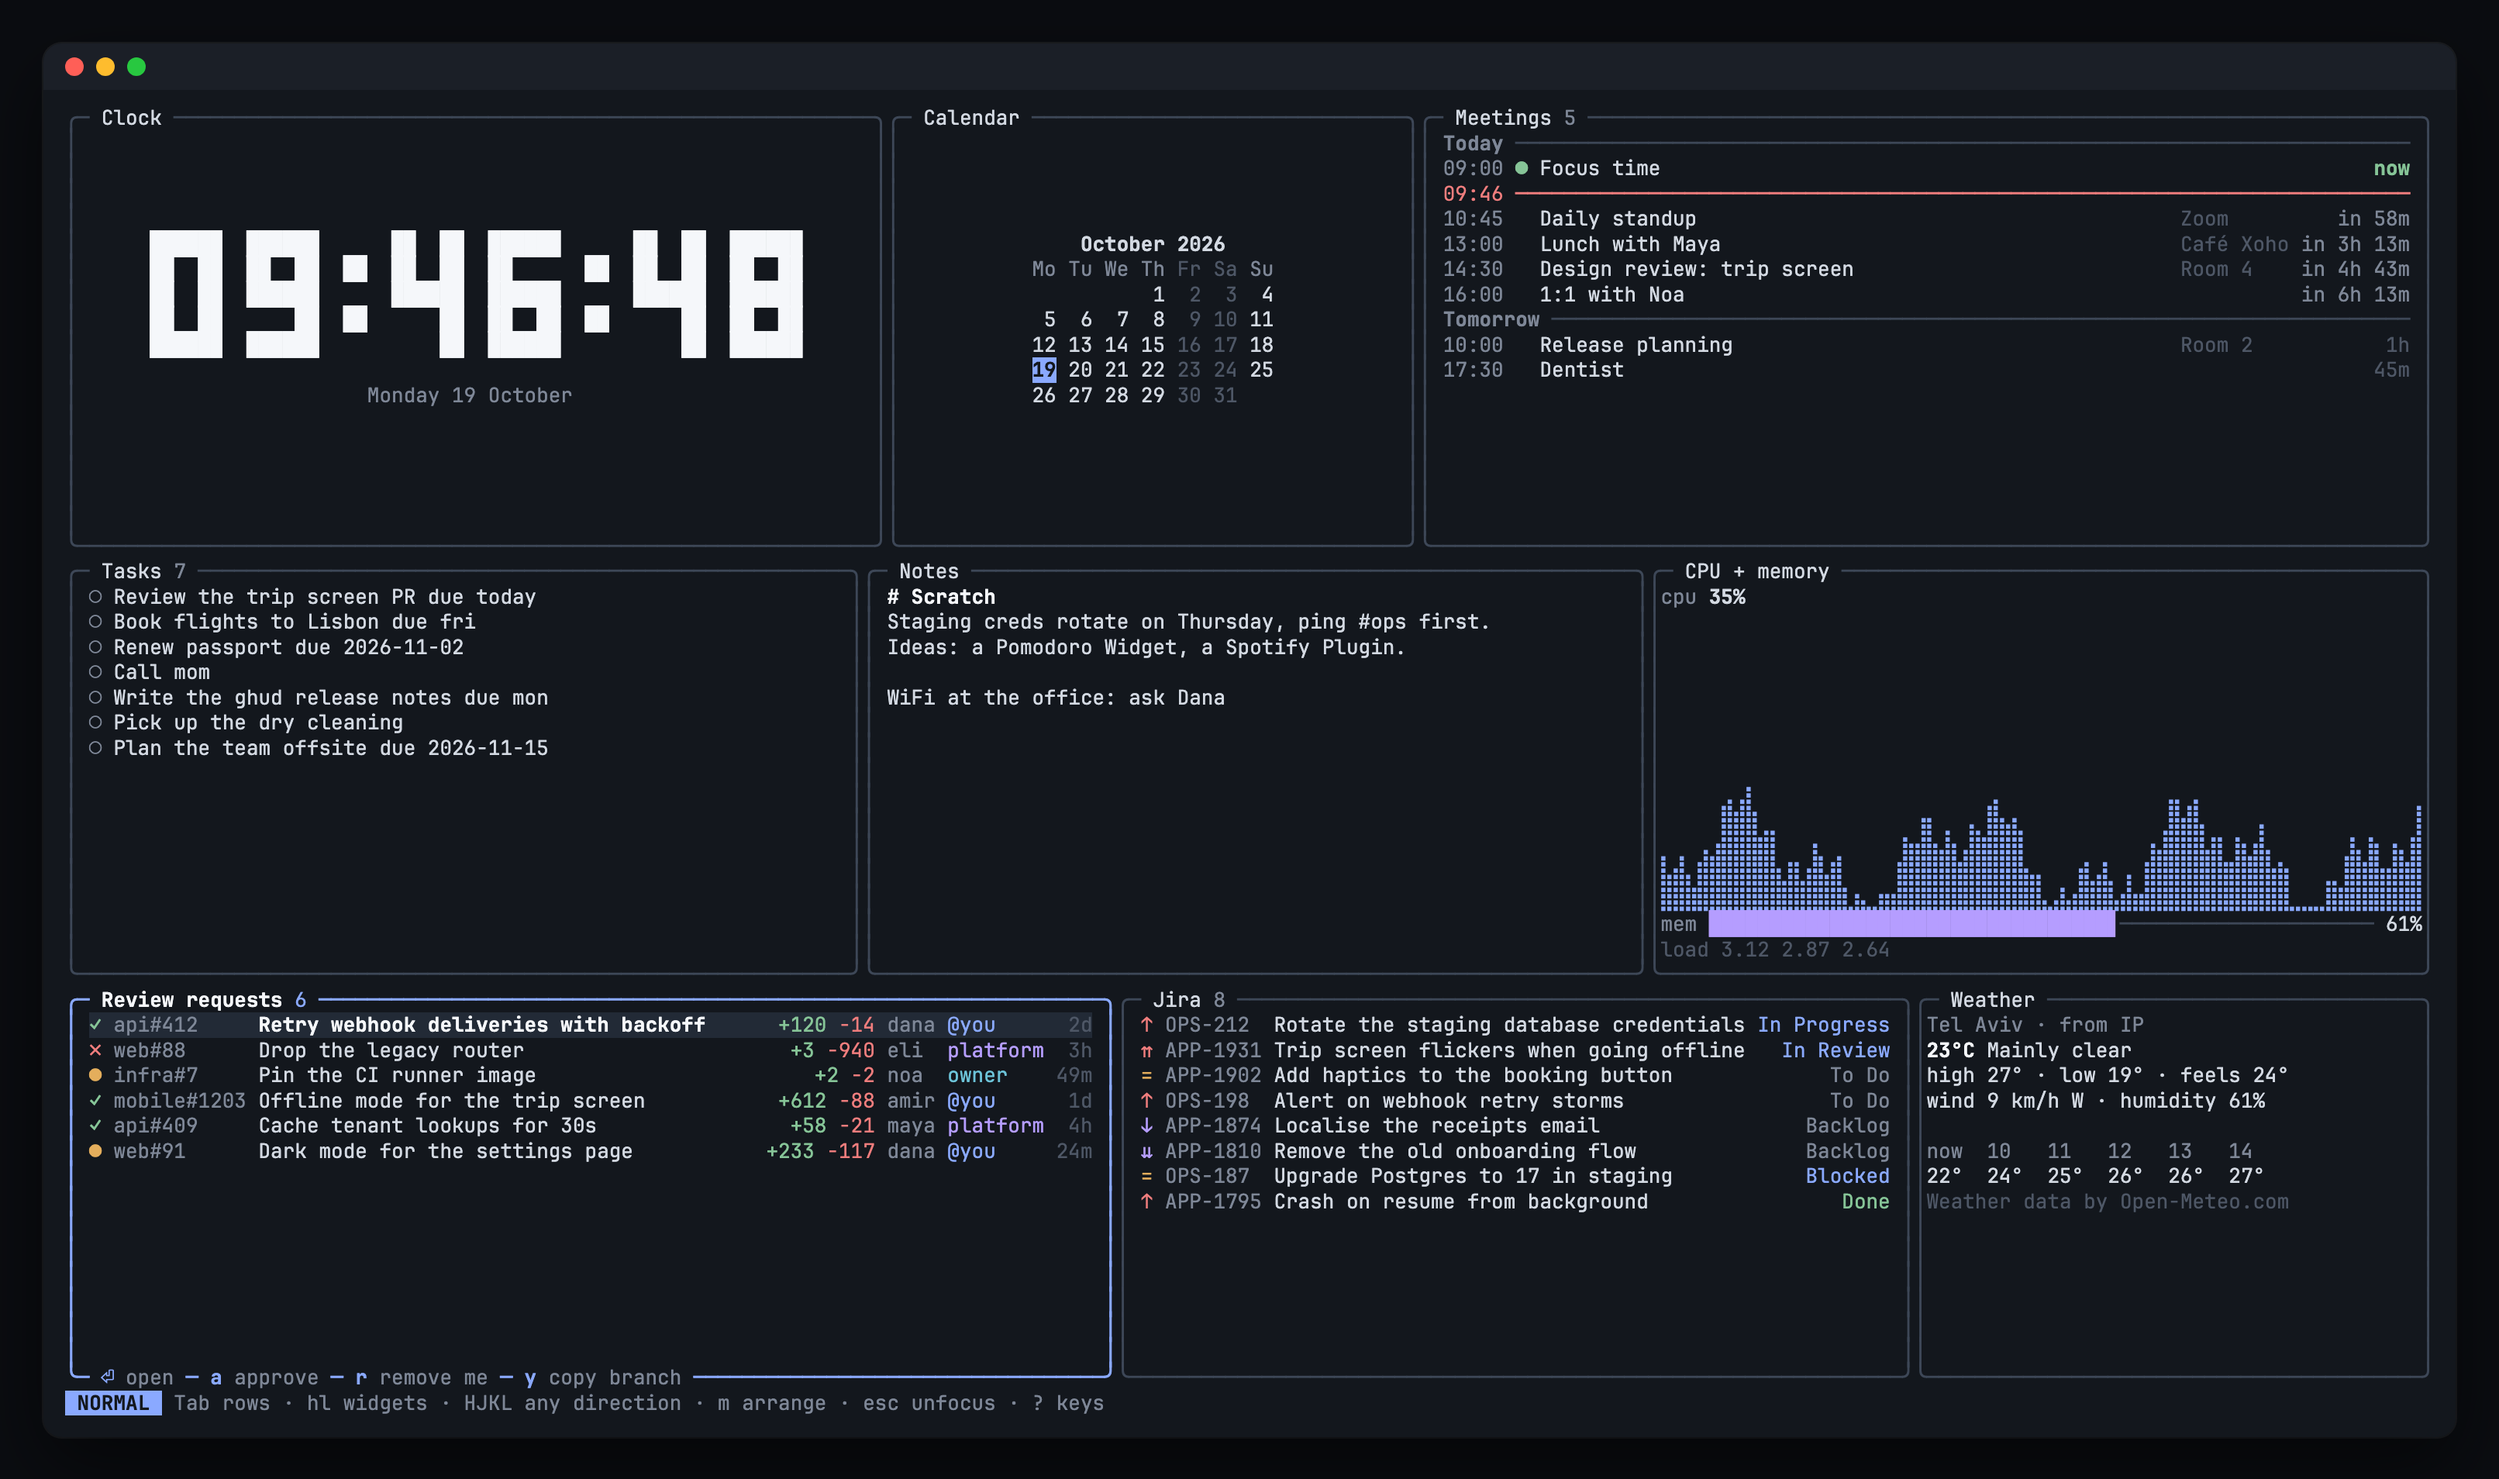
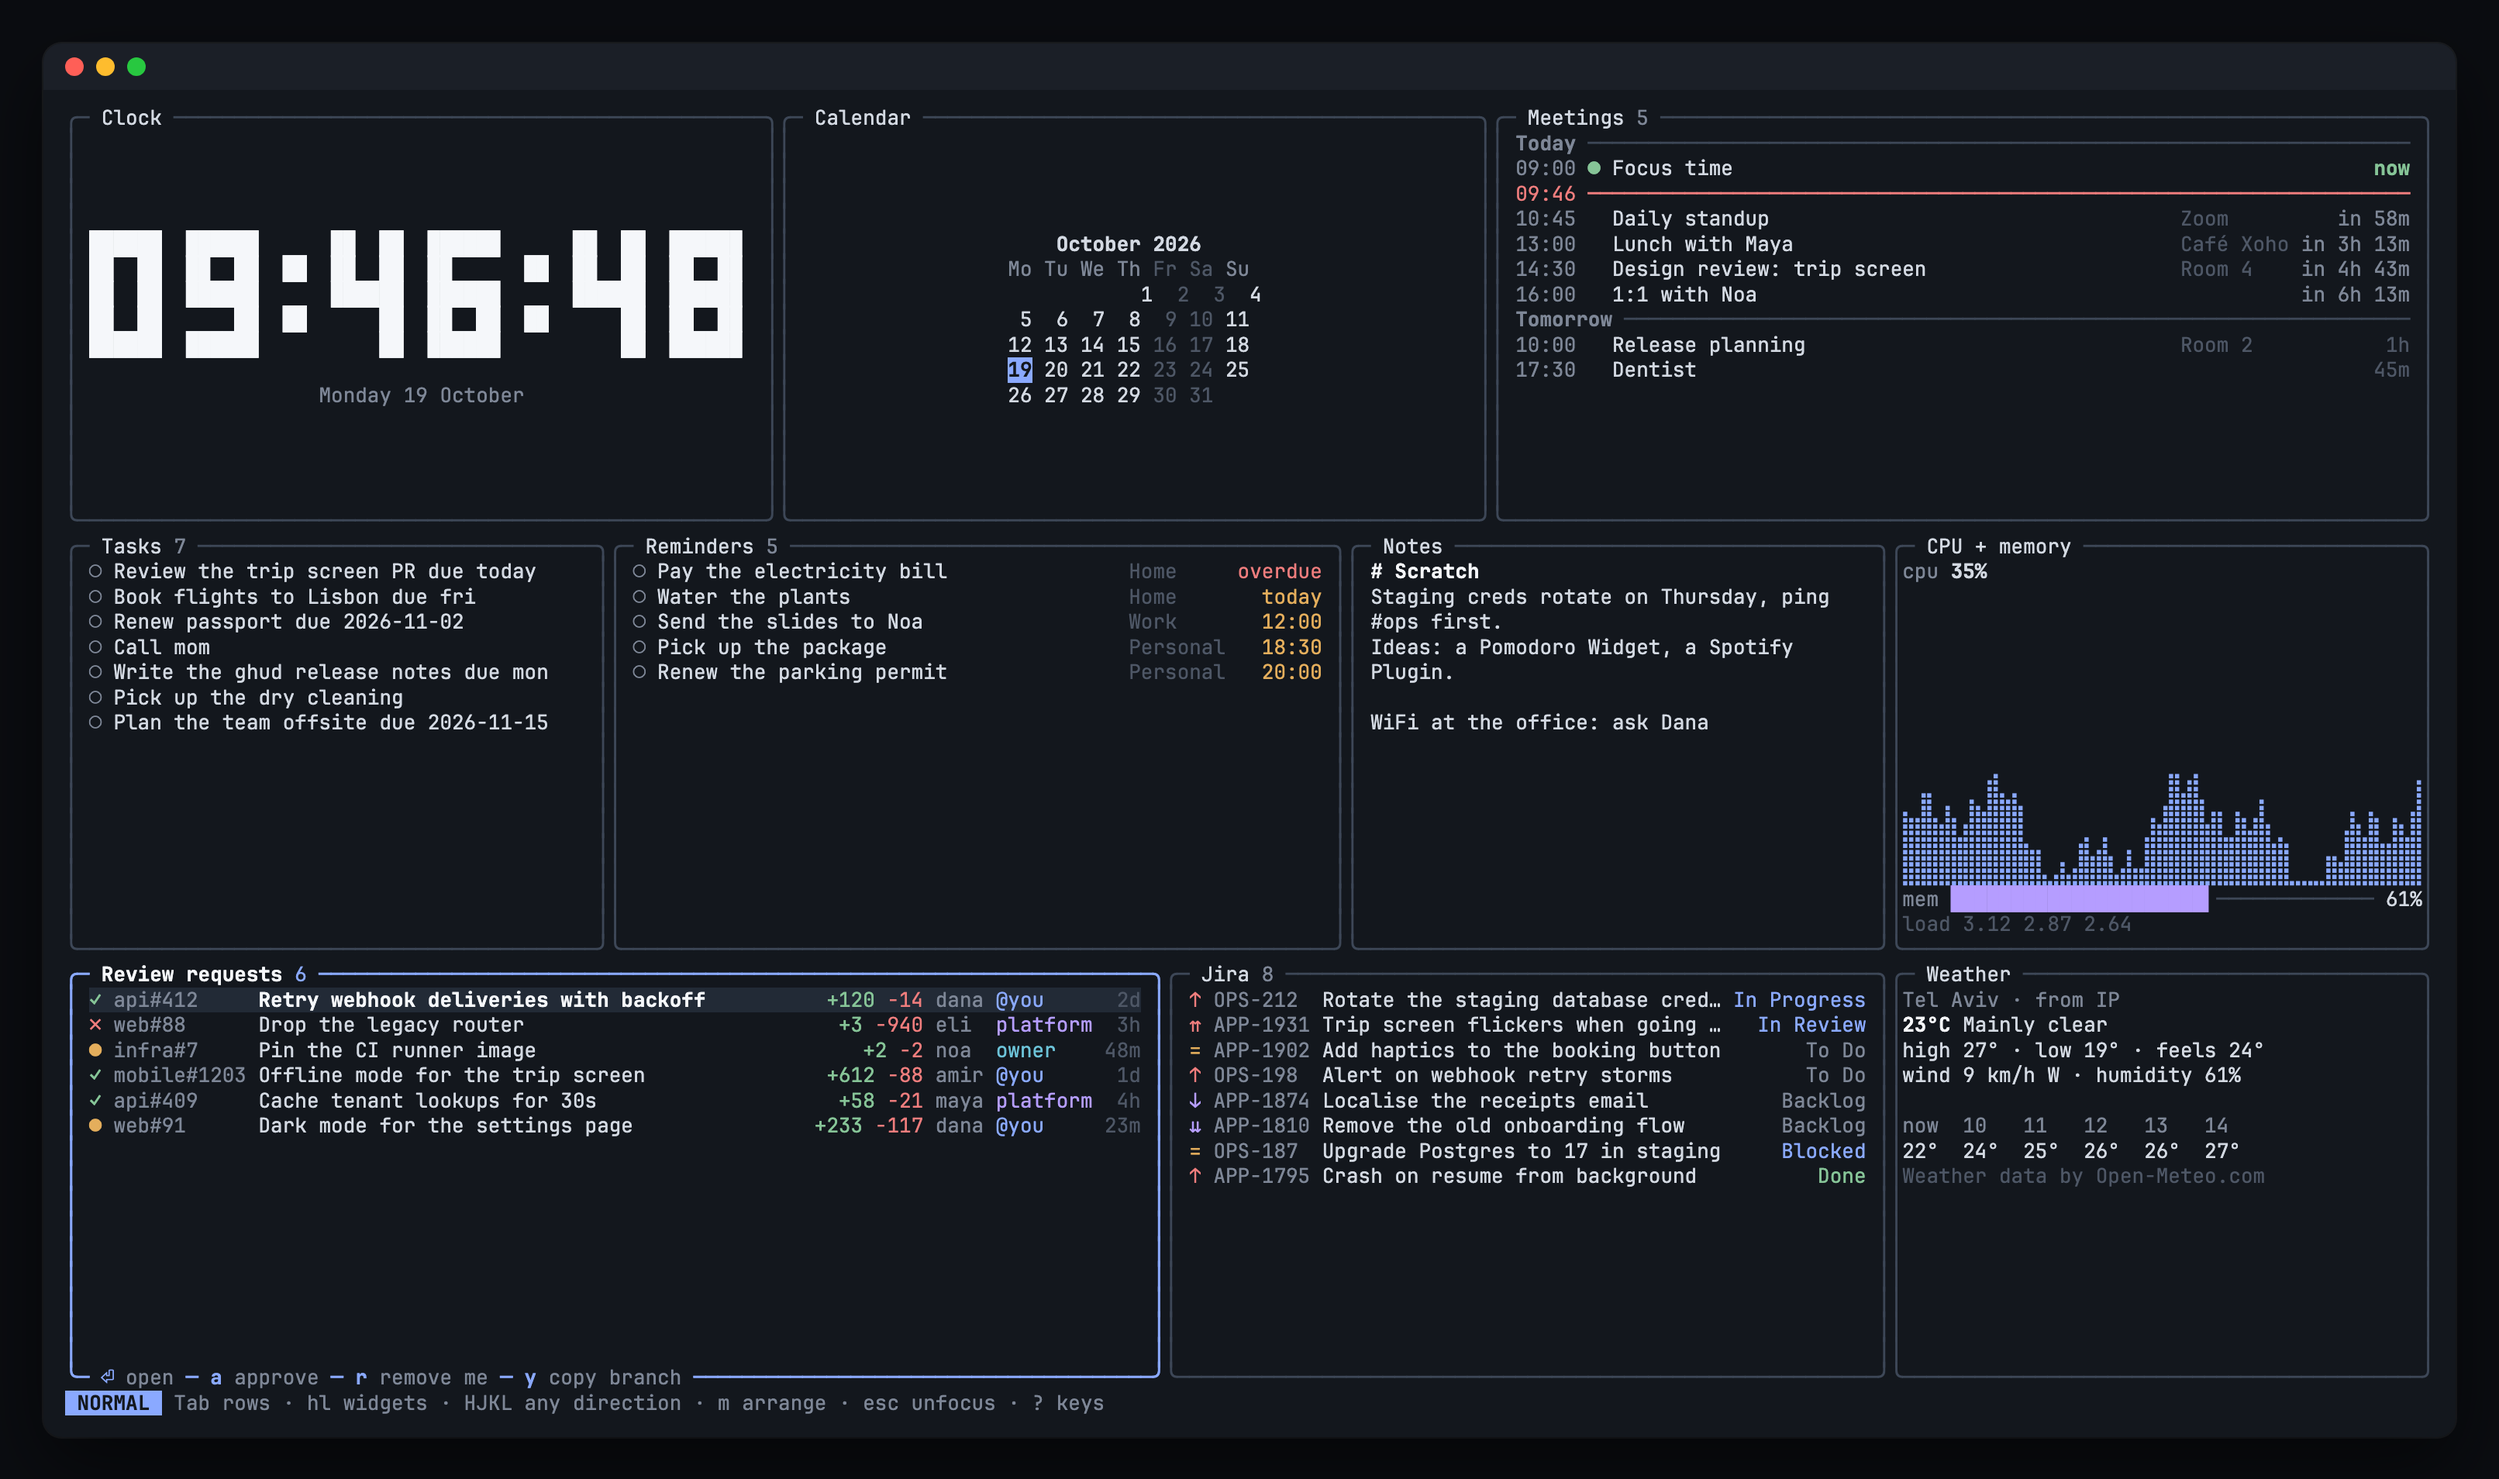
Default layout: add Reminders, even out the rows, give Clock room for big digits
Reminders joins the middle row on macOS. The rows share the height equally
instead of the bottom one taking 40%, and Meetings gives up a little width so
the Clock's big digits fit on a wide screen. New README screenshot.

diff --git a/internal/layout/layout.go b/internal/layout/layout.go
@@ -23,9 +23,9 @@ type Cell struct {
 // Widget type names; Join drops the ones whose type isn't available.
 func Default() Layout {
 	return Layout{Rows: []Row{
-		{Weight: 10, Widgets: []Cell{{"clock", 3}, {"calendar", 3}, {"meetings", 5}}},
-		{Weight: 12, Widgets: []Cell{{"tasks", 4}, {"notes", 4}, {"cpu", 4}}},
-		{Weight: 16, Widgets: []Cell{{"prs", 6}, {"jira", 4}, {"weather", 3}}},
+		{Weight: 12, Widgets: []Cell{{"clock", 3}, {"calendar", 3}, {"meetings", 4}}},
+		{Weight: 12, Widgets: []Cell{{"tasks", 3}, {"reminders", 4}, {"notes", 3}, {"cpu", 3}}},
+		{Weight: 12, Widgets: []Cell{{"prs", 6}, {"jira", 4}, {"weather", 3}}},
 	}}
 }
 

diff --git a/internal/host/platform_test.go b/internal/host/platform_test.go
@@ -22,11 +22,11 @@ func TestMeetingsIsBuiltInOnMacOSOnly(t *testing.T) {
 	}
 }
 
-func TestRemindersIsAddableOnMacOSOnlyAndNotInTheDefaultDashboard(t *testing.T) {
+func TestRemindersIsBuiltInOnMacOSOnly(t *testing.T) {
 	mac := runtime.GOOS == "darwin"
 	h := hosttest.New(t, hosttest.Options{})
-	if _, _, ok := h.Find("─ Reminders "); ok {
-		t.Errorf("Reminders is in the default dashboard on %s:\n%s", runtime.GOOS, h.Screen())
+	if _, _, ok := h.Find("─ Reminders "); ok != mac {
+		t.Errorf("Reminders in the default dashboard = %v on %s:\n%s", ok, runtime.GOOS, h.Screen())
 	}
 
 	h.Press("ctrl+k")

diff --git a/internal/widgets/jira/setup_test.go b/internal/widgets/jira/setup_test.go
@@ -53,7 +53,7 @@ func setUp(h *hosttest.Host, site, email, token string) {
 func TestSetUpJiraPromptsForSiteEmailAndTokenThenLoads(t *testing.T) {
 	j := queue(t)
 	j.queries["project = OPS"] = j.issues
-	h := withJira(t, j, hosttest.Options{Width: 100, Height: 12, Env: map[string]string{}, Config: handWritten})
+	h := withJira(t, j, hosttest.Options{Width: 100, Height: 14, Env: map[string]string{}, Config: handWritten})
 	if s := h.Screen(); !strings.Contains(s, "needs setup") || !strings.Contains(s, setupHint) {
 		t.Fatalf("want needs setup offering %q:\n%s", setupHint, s)
 	}

diff --git a/internal/cli/config_test.go b/internal/cli/config_test.go
@@ -206,6 +206,7 @@ func TestConfigDefaultSaysWhichWidgetsAnEmptyConfigShows(t *testing.T) {
 		t.Fatalf("reference doesn't say an empty config shows the default Widgets:\n%s", ref)
 	}
 	defaults, _, _ := strings.Cut(ref[i:], "\n# Every block")
+	defaults = strings.ReplaceAll(defaults, "\n# ", " ")
 	for _, want := range []string{"Clock", "Calendar", "CPU + memory", "Review requests"} {
 		if !strings.Contains(defaults, want) {
 			t.Errorf("the default Widgets %q lack %s", defaults, want)

diff --git a/internal/widgets/reminders/reminders.go b/internal/widgets/reminders/reminders.go
@@ -21,7 +21,6 @@ var Type = widget.Type{
 	Description: "Reminders due today or overdue, from every list in Reminders.app (macOS).",
 	Refresh:     time.Minute,
 	Fetches:     true,
-	OptIn:       true,
 	New: func(c widget.Config) widget.Widget {
 		return &reminders{ek: c.Ports.EventKit, twelve: c.TimeFormat == "12h"}
 	},

diff --git a/internal/cli/cli_test.go b/internal/cli/cli_test.go
@@ -105,7 +105,7 @@ func system(t *testing.T, stdin string, args ...string) (cli.System, *screen, *b
 		Stdout: stdout,
 		Stderr: stderr,
 		ProgramOptions: []tea.ProgramOption{
-			tea.WithWindowSize(60, 16),
+			tea.WithWindowSize(80, 24),
 			tea.WithoutSignals(),
 		},
 	}, stdout, stderr

diff --git a/README.md b/README.md
@@ -2,9 +2,9 @@
 
 **A god's-eye HUD for your day, right in your terminal.**
 
-![ghud: clock, calendar, meetings, tasks, notes, CPU and memory, GitHub review requests, Jira issues and the weather in one terminal dashboard](docs/screenshot.png)
+![ghud: clock, calendar, meetings, tasks, reminders, notes, CPU and memory, GitHub review requests, Jira issues and the weather in one terminal dashboard](docs/screenshot.png)
 
-Stop jumping between Calendar, GitHub, Jira and your notes to figure out what's next. ghud shows your next meeting, the PRs waiting for your review, your Jira tickets, your tasks and the weather on one screen, and keeps it fresh while you work.
+Stop jumping between Calendar, GitHub, Jira and your notes to figure out what's next. ghud shows your next meeting, the PRs waiting for your review, your Jira tickets, today's tasks and reminders, and the weather on one screen, and keeps it fresh while you work.
 
 And you can act on it, not just look at it. Approve a PR, move a ticket along, check off a task or open a meeting straight from the dashboard, without going to the browser.
 
@@ -64,7 +64,7 @@ Both binaries need to end up in the same directory, which `go install` does for 
 
 ## Getting started
 
-Run `ghud`. With no config you get the default Widgets: Clock, Calendar, Meetings (macOS), Tasks, Notes, CPU + memory, PRs, Jira and Weather. Reminders and Script are opt-in, add them with `ctrl+k` and Add Widget.
+Run `ghud`. With no config you get the default Widgets: Clock, Calendar, Meetings (macOS), Tasks, Reminders (macOS), Notes, CPU + memory, PRs, Jira and Weather. Script is opt-in, add it with `ctrl+k` and Add Widget.
 
 - `?` shows every key. `ctrl+k` opens the Action palette, and the footer shows the keys for whatever is focused.
 - `q` quits.
